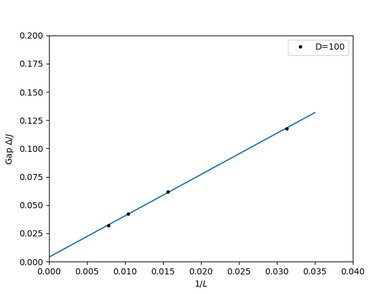
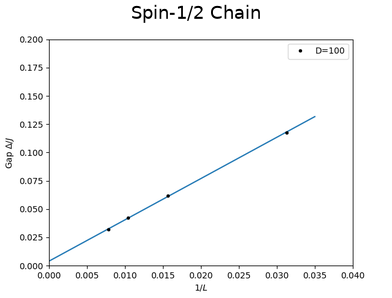
Add DMRG-03 S=1 lattice/plot content and fix diagram/text issues across DMRG and ED tutorials
- DMRG-03: add lattice schematic for the S=1 special-edges chain, and a
  real single-run convergence plot (energy + truncation error) generated
  from an actual dmrg run, plus matching per-bond/per-site energy
  breakdown for both the S=1/2 and S=1 single runs
- DMRG-04: add titles ("Spin-1/2 Chain" / "Spin-1 Chain") to the gap
  extrapolation plots
- DMRG-05: replace a bare "here" link with descriptive link text
- DMRG-02: fix wording around the critical exponent derivation
- ED-01: fix a stray "=" in a parameter dictionary, and center the J
  bond labels and periodic-bond bracket in the lattice diagram
- ED-04: align the periodic-bond bracket with the actual lattice sites
  in both lattice diagrams
- ED-05: fix the lattice diagram so J1/J2 labels are centered on their
  bonds and the next-nearest-neighbor bond connects site 0 to site 2

diff --git a/content/en/tutorials/dmrg/dmrg03.md b/content/en/tutorials/dmrg/dmrg03.md
@@ -130,7 +130,7 @@ plt.xlabel('iteration')
 plt.show()
 ```
 
-For the single run above (L=32, MAXSTATES=100), the ground state energy warms up during the infinite-system growth and settles to its converged value within about 50 iterations — compare it to the exact thermodynamic-limit energy per site quoted in [DMRG-02](../dmrg02) — while the truncation error drops in a sawtooth pattern that bottoms out near machine precision ($\sim 10^{-16}$) at the end of each half-sweep and rises again as the next half-sweep begins:
+For the single run above (L=32, MAXSTATES=100, J=1), the ground state energy warms up during the infinite-system growth and settles to its converged value $E_0=-13.9973156$ within about 50 iterations — since $J=1$ here, this value is directly $E_0/J$. Dividing by the 31 bonds gives $E_0/(31J)\approx-0.4515$, while dividing by all 32 sites gives $E_0/(32J)\approx-0.4374$; these bracket the exact thermodynamic-limit energy per site quoted in [DMRG-02](../dmrg02), $E_0/J=1/4-\ln2=-0.4431471806$. The truncation error drops in a sawtooth pattern that bottoms out near machine precision ($\sim 10^{-16}$) at the end of each half-sweep and rises again as the next half-sweep begins:
 
 ![](/figs/dmrg/dmrg_energy_truncation.png)
 
@@ -305,6 +305,10 @@ parms = [ {
 
 Apart from parameter and file name changes, it is the same as the `spin_one_half.py` script explained above.
 
+For this S=1 single run (L=32, MAXSTATES=100, J=1), the ground state energy warms up during the infinite-system growth and settles to its converged value $E_0=-42.6513851$ within about 30 iterations — since $J=1$ here, this value is directly $E_0/J$. This chain isn't uniform (30 bulk spin-1 sites plus the 2 spin-1/2 edge sites), so "per site" is ambiguous; dividing by the 31 bonds instead gives $E_0/(31J)\approx-1.3759$, while dividing by just the 30 bulk sites gives $E_0/(30J)\approx-1.4217$. These bracket the numerical thermodynamic-limit energy per site quoted in [DMRG-02](../dmrg02), $E_0/J=-1.401484039$, as expected for a finite chain — even with the special edges added to suppress boundary effects. The truncation error shows the same sawtooth convergence pattern as the spin-1/2 case above, bottoming out near machine precision at the end of each half-sweep and rising again as the next half-sweep begins:
+
+![](/figs/dmrg/dmrg_energy_truncation_spin_one.png)
+
 ##### Multiple runs
 
 ###### Using parameter files
@@ -343,7 +347,7 @@ The correct approach is to eliminate the effect of the open boundary conditions 
 
 1. Calculate the ground state energy of two chains of length $L$ and $L+2$, again for the lengths already mentioned above, and calculate $e_0/J = (E_0(L+2) - E_0 (L))/2$ as the energy per bond.
 
-2. The less costly and usual way would be to use correlators (as discussed in [DMRG-06](../dmrg06)) between neighboring sites:
+2. The less costly and usual way would be to use correlators (as discussed further in [DMRG-06](../dmrg06)) between neighboring sites:
 $$
 e_0/J = \frac{1}{2} (\langle S^+_i S^-_{i+1}\rangle  + \langle S^-_i S^+_{i+1}\rangle ) + \langle S^z_i S^z_{i+1} \rangle 
 $$

diff --git a/content/en/tutorials/ed/ed01.md b/content/en/tutorials/ed/ed01.md
@@ -35,10 +35,10 @@ where the sum runs over nearest-neighbor bonds on a periodic chain. This model i
 The `chain lattice` is one of the built-in geometries of the [ALPS lattice library](../../../documentation/intro/latticehowtos); it places `L` sites on a ring connected by periodic nearest-neighbor bonds of strength `J`:
 
 ```
-      J     J     J
+      J       J       J
   o-------o-------o-------o
   0       1       2       3
-  |___________________________|
+  |_______________________|
               J   (bond 3-0, periodic)
 ```
 
@@ -119,7 +119,7 @@ parms = [{
         'L'                         : 4,
         'CONSERVED_QUANTUMNUMBERS'  : 'Sz',
         'MEASURE_STRUCTURE_FACTOR[Structure Factor Sz]'       : 'Sz',
-        'MEASURE_CORRELATIONS[Diagonal spin correlations]='   : 'Sz',
+        'MEASURE_CORRELATIONS[Diagonal spin correlations]'    : 'Sz',
         'MEASURE_CORRELATIONS[Offdiagonal spin correlations]' : 'Splus:Sminus'
     }]
 

diff --git a/content/en/tutorials/ed/ed05.md b/content/en/tutorials/ed/ed05.md
@@ -42,11 +42,11 @@ In the first part of this tutorial, we will locate the position of the critical 
 The `nnn chain lattice` extends the periodic chain with a second set of bonds connecting each site to its next-nearest neighbor:
 
 ```
-        J          J          J
+       J1        J1        J1
    o---------o---------o---------o---(periodic)
    0         1         2         3
-    \___________________________/
-        J1 (=J2)   next-nearest-neighbor bonds
+    \_________________/
+            J2   next-nearest-neighbor bond
 ```
 
 This built-in lattice is documented, along with the rest of the [ALPS lattice library](../../../documentation/intro/latticehowtos), as an extension of the plain `chain lattice` used in the previous tutorials.

diff --git a/content/en/tutorials/ed/ed04.md b/content/en/tutorials/ed/ed04.md
@@ -54,7 +54,7 @@ The critical transverse-field Ising chain uses the same periodic `chain lattice`
     Jz    Jz    Jz          Jz
 o------o------o------ ... ------o     (each o also feels an on-site field Gamma S^x)
 0      1      2                L-1
-|______________________________________|
+|_______________________________|
                 Jz   (bond L-1 -- 0, periodic)
 ```
 
@@ -213,8 +213,8 @@ Same periodic `chain lattice` as above (see [ALPS lattice library](../../../docu
     J       J         J
 o-------o-------o--- ... ---o
 0       1       2          L-1
-|_________________________________|
-                J   (bond L-1 -- 0, periodic)
+|___________________________|
+              J   (bond L-1 -- 0, periodic)
 ```
 
 ### Method

diff --git a/content/en/tutorials/dmrg/dmrg05.md b/content/en/tutorials/dmrg/dmrg05.md
@@ -96,7 +96,7 @@ Repeat a similar calculation for the spin-1/2 chain in the lowest magnetization 
 
 ### Using parameter files
 
-The following parameter file will accomplish this task, downloadable [here](https://github.com/ALPSim/ALPS/blob/bd842d1899feacd3d50392217f5239183d11a817/tutorials/dmrg-03-local-observables/spin_one_half):
+The following parameter file [`spin_one_half`](https://github.com/ALPSim/ALPS/blob/bd842d1899feacd3d50392217f5239183d11a817/tutorials/dmrg-03-local-observables/spin_one_half) will accomplish this task:
 
     LATTICE="open chain lattice"
     MODEL="spin"

diff --git a/content/en/tutorials/dmrg/dmrg02.md b/content/en/tutorials/dmrg/dmrg02.md
@@ -37,7 +37,7 @@ $$
 \eta \equiv -\lim_{r\rightarrow\infty} \frac{d\ln |C(r)|}{d\ln r} ,\qquad C(r) \equiv \left| \langle S^z_i S^z_j \rangle \right|_{|i-j|=r} \sim \frac{\sqrt{\ln r}}{r}
 $$
 
-So the exponent measured at any finite distance $r$ is:
+So the critical exponent is:
 
 $$
 \eta = \lim_{r\rightarrow\infty}\left(1 - \frac{1}{2\ln r}\right) = 1.
